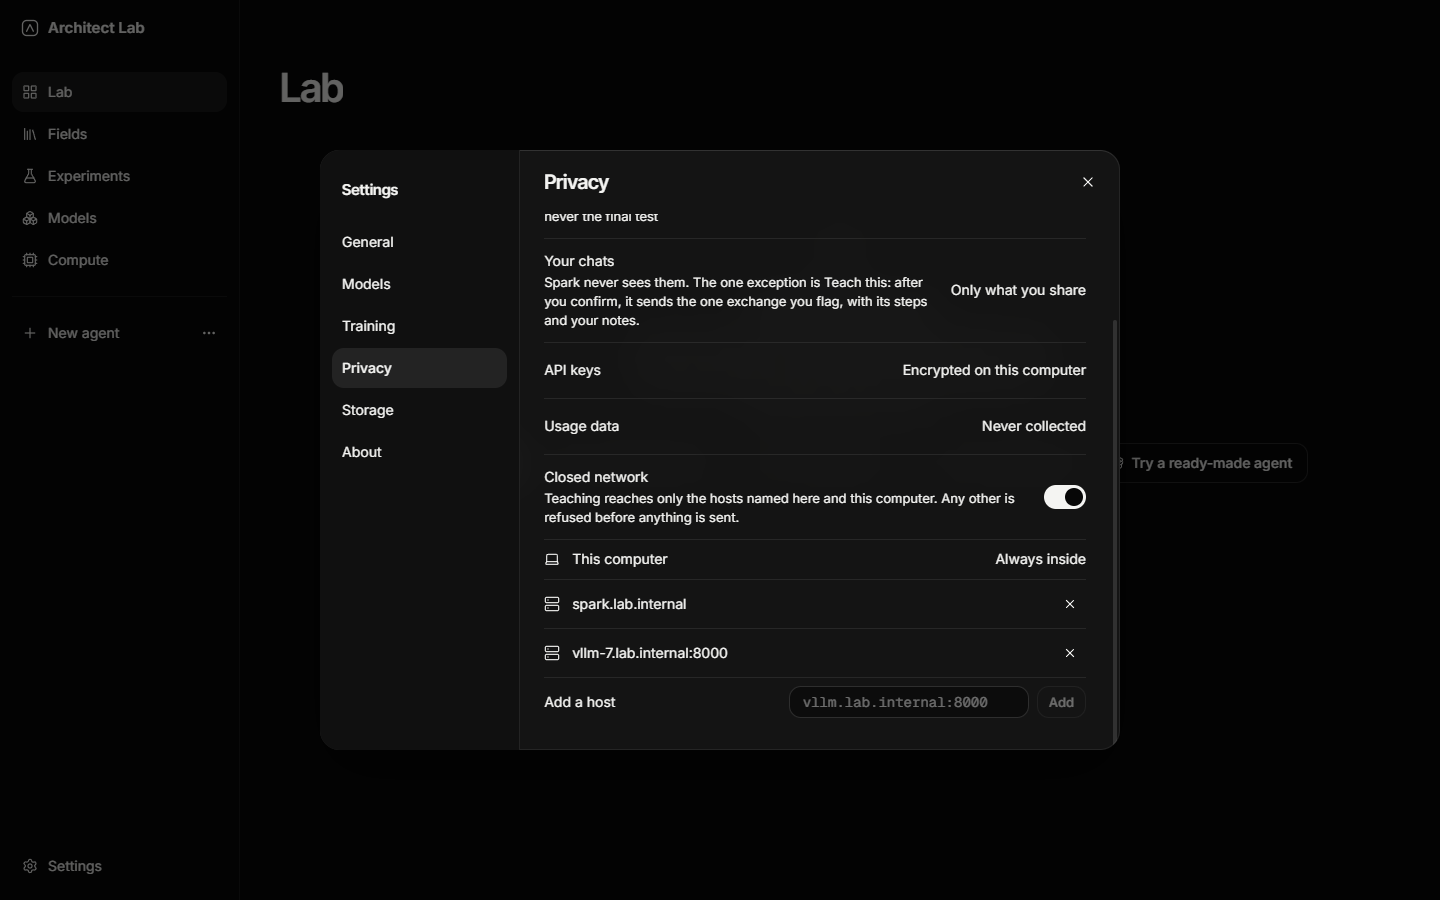
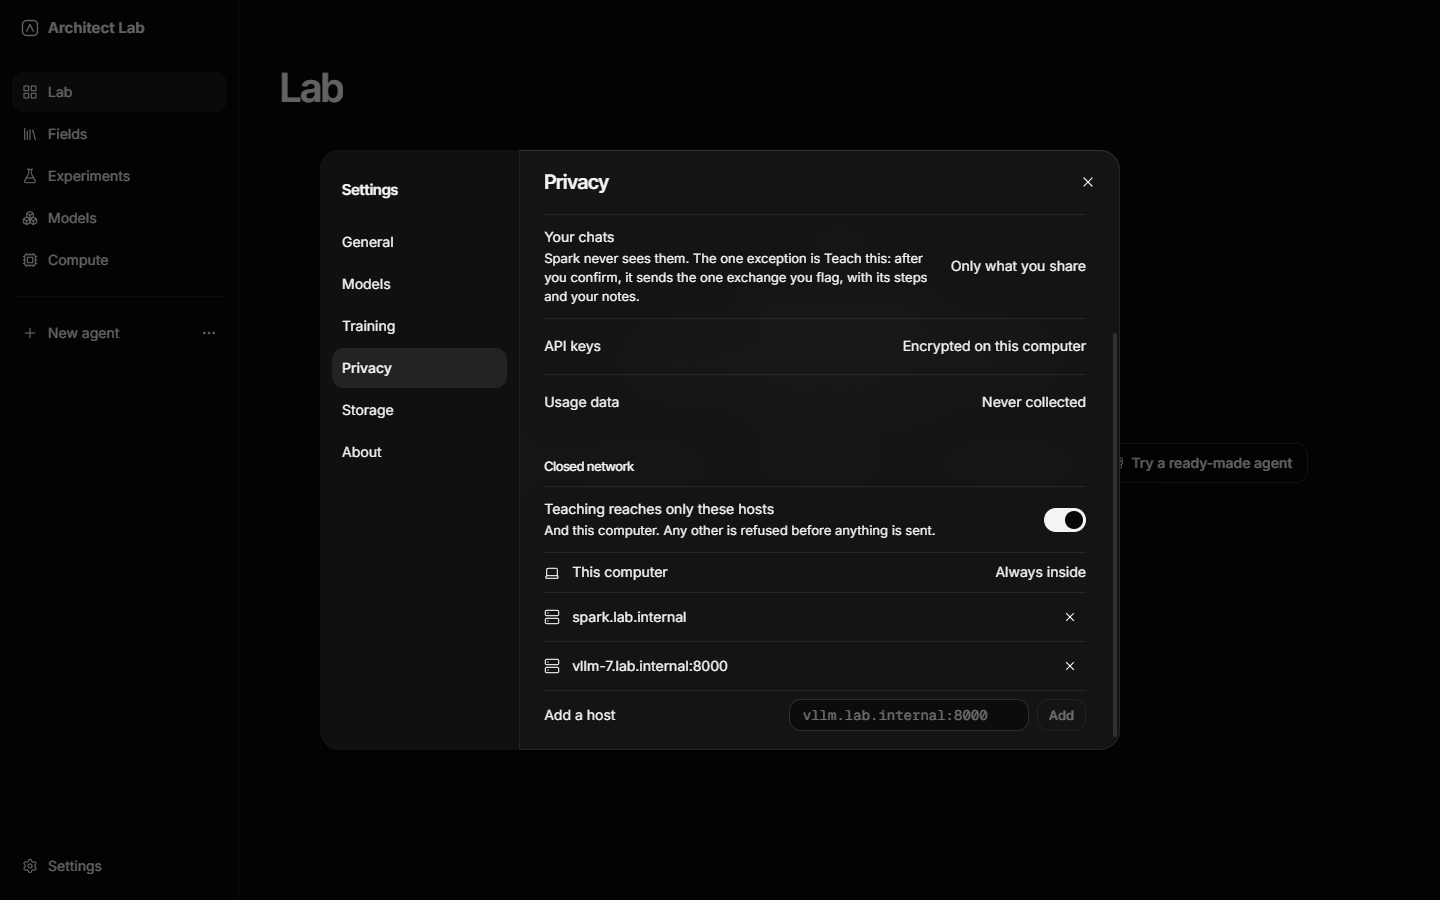
fix(desktop): give the closed network its own section in Settings, and retake its screenshot
The hosts sit under a Closed network heading, and the e2e scrolls the pane
to a row boundary so the whole section is in view with nothing cut above.

diff --git a/apps/desktop/e2e/closed-network.spec.ts b/apps/desktop/e2e/closed-network.spec.ts
@@ -1,7 +1,7 @@
 import { mkdir } from 'node:fs/promises';
 import { join } from 'node:path';
 import { fileURLToPath } from 'node:url';
-import { expect, test, type Page } from '@playwright/test';
+import { expect, test, type Locator, type Page } from '@playwright/test';
 import type { EvidenceResult, Job, RunDetail } from '@architect/shared';
 import { goTo, launchApp, settle, updateSettings, type LaunchedApp } from './app';
 import { stubEngine } from './fixtures';
@@ -57,6 +57,28 @@ async function openAt(path: string): Promise<void> {
   await goTo(page, path);
 }
 
+/**
+ * Scrolls the pane holding `region` so all of it is in view and the pane's top edge falls on the
+ * top of a row, so no row shows cut in half above it.
+ */
+async function showWhole(region: Locator): Promise<void> {
+  await region.evaluate((element) => {
+    let pane = element.parentElement;
+    while (
+      pane &&
+      !(pane.scrollHeight > pane.clientHeight && getComputedStyle(pane).overflowY !== 'visible')
+    ) {
+      pane = pane.parentElement;
+    }
+    if (!pane) return;
+    const bottom = element.getBoundingClientRect().bottom;
+    const rows = [...(element.parentElement?.children ?? [])];
+    const first =
+      rows.find((row) => bottom - row.getBoundingClientRect().top <= pane.clientHeight) ?? element;
+    pane.scrollTop += first.getBoundingClientRect().top - pane.getBoundingClientRect().top;
+  });
+}
+
 const closedNetwork = () =>
   page.evaluate(() => window.architect.settings.get().then((settings) => settings.closedNetwork));
 
@@ -85,7 +107,7 @@ test('names the hosts teaching may reach, in Settings', async () => {
   await expect
     .poll(closedNetwork)
     .toEqual({ on: true, hosts: ['spark.lab.internal', 'vllm-7.lab.internal:8000'] });
-  await host.scrollIntoViewIfNeeded();
+  await showWhole(settings.getByRole('region', { name: 'Closed network' }));
   await capture('closed-network-settings-dark.png');
 
   await settings.getByRole('button', { name: 'Remove vllm-7.lab.internal:8000' }).click();

diff --git a/apps/desktop/src/renderer/src/settings/ClosedNetwork.tsx b/apps/desktop/src/renderer/src/settings/ClosedNetwork.tsx
@@ -1,6 +1,14 @@
 import { useState } from 'react';
 import { networkHostProblem, normalizeNetworkHost, type ClosedNetwork } from '@architect/shared';
-import { Button, IconButton, Input, SettingsRow, SettingsValue, Switch } from '@architect/ui';
+import {
+  Button,
+  IconButton,
+  Input,
+  SettingsRow,
+  SettingsSection,
+  SettingsValue,
+  Switch,
+} from '@architect/ui';
 import { Laptop, Server, X } from 'lucide-react';
 import type { TabProps } from './SettingsModal';
 
@@ -30,10 +38,10 @@ export function ClosedNetworkRows({ settings, update }: TabProps) {
   };
 
   return (
-    <>
+    <SettingsSection title="Closed network">
       <SettingsRow
-        label="Closed network"
-        meta="Teaching reaches only the hosts named here and this computer. Any other is refused before anything is sent."
+        label="Teaching reaches only these hosts"
+        meta="And this computer. Any other is refused before anything is sent."
       >
         <Switch
           aria-label="Closed network"
@@ -99,6 +107,6 @@ export function ClosedNetworkRows({ settings, update }: TabProps) {
           </form>
         </SettingsRow>
       )}
-    </>
+    </SettingsSection>
   );
 }
